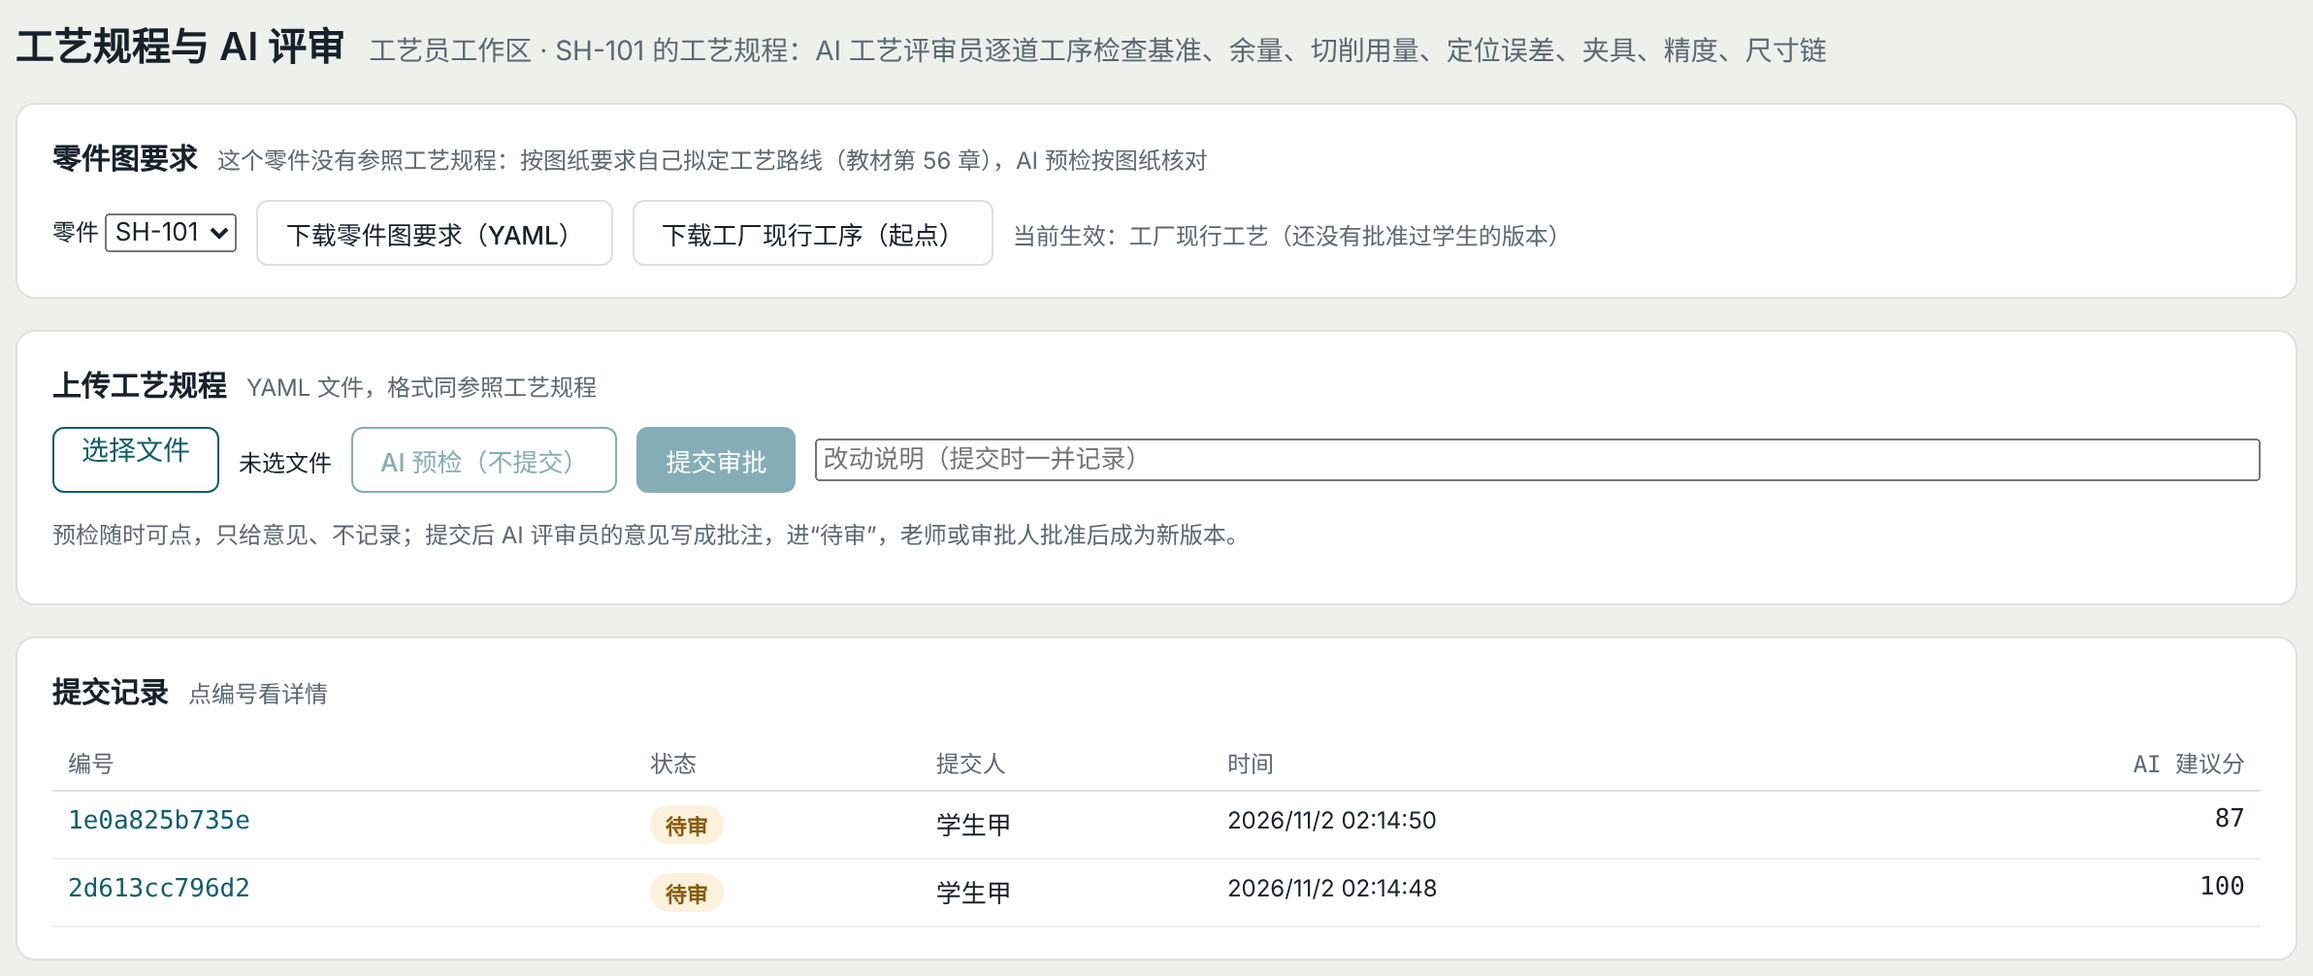
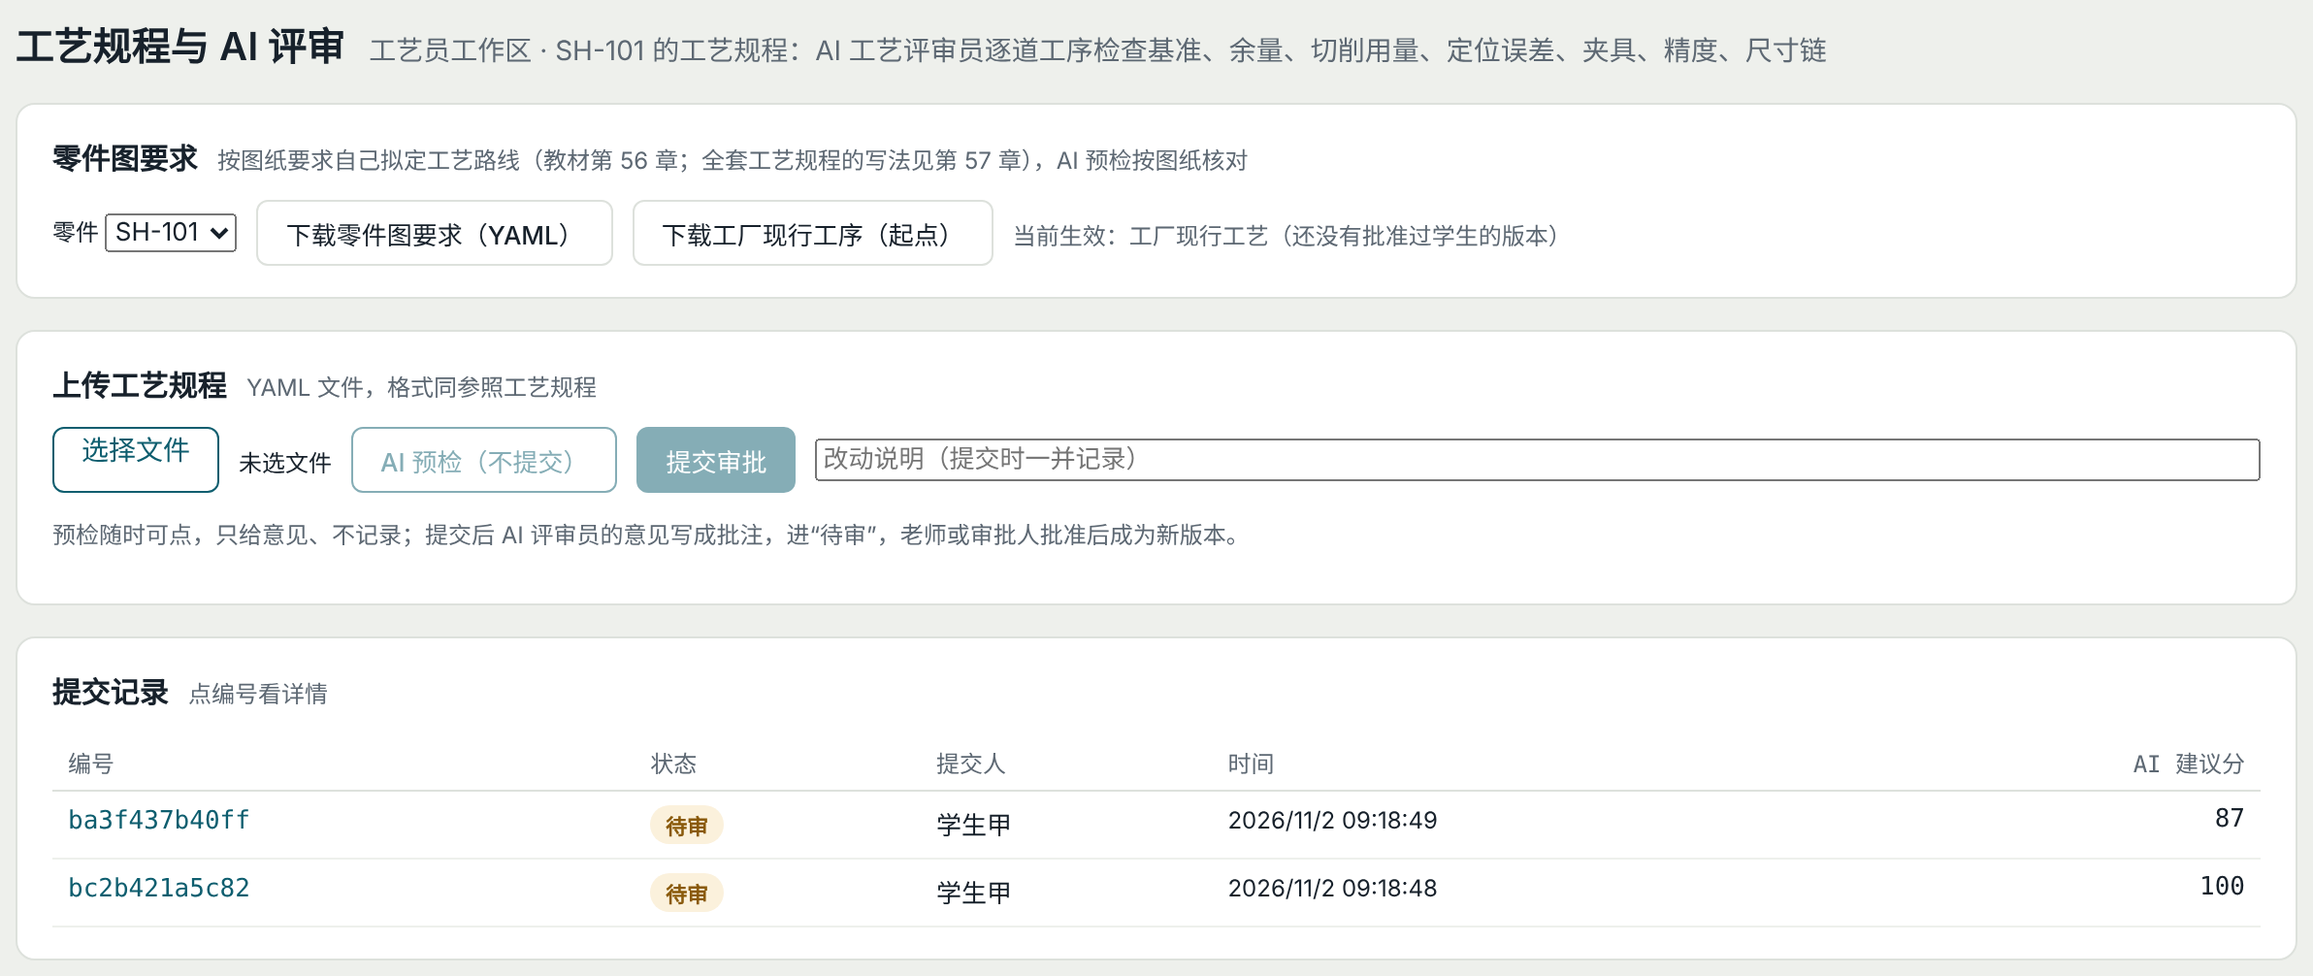
第 57 章（施工中）：任务单 TS-57-1、截图、术语；按独立审稿改正（棒料直径、滚齿工时、键槽深尺寸链加同轴度环、量具量程、热处理变形口径等）
Claude-Session: https://claude.ai/code/session_01TbQEhfaMssaAetoXrCsA4k

diff --git a/factory/digital/web/src/pages/ProcessPlan.vue b/factory/digital/web/src/pages/ProcessPlan.vue
@@ -16,7 +16,7 @@
         </div>
       </section>
       <section v-else class="card">
-        <div class="card-head" data-help="pp-part"><h2>零件图要求</h2><span class="muted small">这个零件没有参照工艺规程：按图纸要求自己拟定工艺路线（教材第 56 章），AI 预检按图纸核对</span></div>
+        <div class="card-head" data-help="pp-part"><h2>零件图要求</h2><span class="muted small">按图纸要求自己拟定工艺路线（教材第 56 章；全套工艺规程的写法见第 57 章），AI 预检按图纸核对</span></div>
         <div class="line">
           <label class="small">零件 <select v-model="item"><option v-for="i in ITEMS" :key="i" :value="i">{{ i }}</option></select></label>
           <button class="btn ghost" @click="downloadPart">下载零件图要求（YAML）</button>
@@ -95,7 +95,7 @@ import { useRoute } from 'vue-router';
 import { get, post, session } from '../lib/api';
 
 const ITEMS = ['SH-301', 'SH-101'];
-const HAS_REF = { 'SH-301': true };   // SH-101 只有零件图要求（第 13 轮十二），路线由学生拟定
+const HAS_REF = { 'SH-301': true };   // SH-101 网页上只给零件图要求（第 13 轮十二），路线由学生拟定；std/SH-101_process.yaml（第 57 章）可经接口下载
 const STATUS = { pending: '待审', approved: '已批准', rejected: '已退回' };
 const TONE = { pending: 'warn', approved: 'ok', rejected: 'bad' };
 const LEVEL = { error: '必须改', warning: '建议', info: '说明' };

diff --git a/textbook/mfgtech/ch57/lab/lab57_7.js b/textbook/mfgtech/ch57/lab/lab57_7.js
@@ -23,7 +23,7 @@ WQ.lab({
   scenes: [
     { id: "sh101", robot: true, name: ["SH-101 扩产", "SH-101 ramp-up"],
       params: { N: { value: 20000 }, KA: { value: 350000 }, KB: { value: 40000 }, cbn: { value: 3 }, tht: { value: 4 } },
-      problem: { title: ["机器人问题：减速器订单翻了三倍，磨床排不过来", "Robot problem: reducer orders tripled, the grinder cannot keep up"],
+      problem: { title: ["机器人问题：减速器订单增加到原来的 3 倍多，磨床排不过来", "Robot problem: reducer orders more than tripled, the grinder cannot keep up"],
                  text: ["WQR-105 减速器年产量要到 2 万台，SH-101 的外圆磨床每件 16 min，跟不上 10.2 min 的需求节拍。买一台磨床还是改成硬车？投资、成本、能力和风险都要比。",
                         "WQR-105 goes to 20 000 a year; SH-101's grinder needs 16 min per part against a 10.2 min takt. Buy a grinder or hard-turn? Compare investment, cost, capacity and risk."] } },
   ],

diff --git a/textbook/mfgtech/ch57/code/ex57_3.py b/textbook/mfgtech/ch57/code/ex57_3.py
@@ -59,17 +59,21 @@ res = TL.extreme(links)
 c5 = next(c for c in P["characteristics"] if c["id"] == "C5")
 assert res.max <= c5["nominal"] + c5["es"] + 1e-9 and res.min >= c5["nominal"] + c5["ei"] - 1e-9
 H = ch["links"][0]
-r30, r70 = ch["links"][1], ch["links"][2]
-H_es = c5["es"] + r30["ei"] - r70["es"]                     # 封闭环上偏差 = H 上偏差 − r30 下偏差 + r70 上偏差 → 反求 H 上偏差
-H_ei = c5["ei"] + r30["es"] - r70["ei"]
+r30, r70, ec = ch["links"][1], ch["links"][2], ch["links"][3]
+H0_es = c5["es"] + r30["ei"] - r70["es"]                    # 不计同轴度：封闭环上偏差 = H 上偏差 − r30 下偏差 + r70 上偏差 → 反求 H 上偏差
+H0_ei = c5["ei"] + r30["es"] - r70["ei"]
+H_es = H0_es - ec["es"]                                     # 计入磨后轴伸轴线的偏移（0 ± e，第 53.5 节）：H 的公差被压缩
+H_ei = H0_ei - ec["ei"]
+assert H["es"] <= H_es + 1e-9 and H["ei"] >= H_ei - 1e-9
 
-fig, ax = plt.subplots(figsize=(4.2, 2.2))
+fig, ax = plt.subplots(figsize=(4.2, 2.6))
 items = [(T("H 槽底到精车外圆下母线（工序 50）", "H (op 50)"), H["nominal"], H["es"], H["ei"], M.ACCENT, "+"),
          (T("精车轴伸半径 Ø20.4/2（工序 30）", "semi radius (op 30)"), r30["nominal"], r30["es"], r30["ei"], M.MUTED, "−"),
          (T("磨削轴伸半径 Ø20 j6/2（工序 70）", "ground radius (op 70)"), r70["nominal"], r70["es"], r70["ei"], M.WARM, "+"),
+         (T("磨后与精车轴线的偏移（同轴度 0.02）", "axis offset (coaxiality 0.02)"), ec["nominal"], ec["es"], ec["ei"], M.GREEN, "+"),
          (T("d − t₁ 封闭环（图纸 16.5 0/−0.1）", "d − t₁ closing link"), c5["nominal"], res.max - c5["nominal"], res.min - c5["nominal"], M.RED, "=")]
 for i, (lab, nom, es, ei, col, sg) in enumerate(items):
-    yy = 3 - i
+    yy = 4 - i
     ax.barh(yy, (es - ei) * 1000, left=ei * 1000, color=col, height=0.5)
     ax.text(-118, yy, f"{sg} {lab}", va="center", ha="right", fontsize=6.8)
     ax.text(max(es, 0) * 1000 + 4, yy, f"{nom:g}（{es:+.4g}/{ei:+.4g}）".replace("-", "−"), va="center", fontsize=6.5)
@@ -95,5 +99,5 @@ figure(fig, "fig57_3_4")
 
 out(d8_cur=d8(cur)["result"].es, d8_alt=d8(alt)["result"].es, d8_alt_ok=d8(alt)["ok"], d30_cur=d30(cur)["result"].es,
     d30_alt=d30(alt)["result"].es, amin=min(a["min"] for a in cur["allowances"]), amax=max(a["max"] for a in cur["allowances"]),
-    n_cuts=len(tc["cuts"]), n_draw=len(tc["drawing"]), H=H["nominal"], H_es=H_es, H_ei=H_ei, r30=r30["nominal"], r70=r70["nominal"],
+    n_cuts=len(tc["cuts"]), n_draw=len(tc["drawing"]), H=H["nominal"], H_es=H_es, H_ei=H_ei, H0_es=H0_es, H0_ei=H0_ei, Hs=H["es"], Hi=H["ei"], e_coax=ec["es"], r30=r30["nominal"], r70=r70["nominal"],
     res_es=res.max - c5["nominal"], res_ei=res.min - c5["nominal"], chain_T=res.max - res.min)

diff --git a/textbook/mfgtech/ch57/code/ex57_1.py b/textbook/mfgtech/ch57/code/ex57_1.py
@@ -37,9 +37,9 @@ figure(fig, "fig57_1_2")
 
 fig, ax = plt.subplots(figsize=(6.2, 2.3))
 parts = [(52.0, T("齿顶圆 Ø52", "tip Ø52"), M.INK), (1.5, T("精车余量 1.5", "finish 1.5"), M.ACCENT),
-         (bar["z1"], T(f"毛坯最小余量 {bar['z1']:.2f}", f"bar min stock {bar['z1']:.2f}"), M.WARM), (0.3, T("粗车公差 0.3", "rough tol 0.3"), M.MUTED)]
+         (bar["z1"], T(f"毛坯最小余量 {bar['z1']:.2f}", f"bar min stock {bar['z1']:.2f}"), M.WARM)]
 l = 0
-POS = {1: (52.75, 1.36, "center"), 2: (54.4, 1.58, "center"), 3: (55.7, 1.36, "left")}
+POS = {1: (52.75, 1.36, "center"), 2: (53.6, 1.58, "center")}
 for k, (w, lab, col) in enumerate(parts):
     ax.barh(1, w, left=l, color=col, height=0.5, clip_on=True)
     if k:
@@ -50,6 +50,9 @@ ax.text(50, 1, T("齿顶圆 Ø52", "tip Ø52"), ha="center", va="center", fontsi
 for d, col, lab in ((bar["pick"], M.GREEN, T(f"够用的圆钢 Ø{bar['pick']}", f"enough: Ø{bar['pick']}")), (60, M.RED, T("工厂现用 Ø60", "in stock: Ø60"))):
     ax.barh(0 if d == 60 else 0.45, d, color=col, height=0.3, alpha=0.35)
     ax.text(d + 0.3, 0 if d == 60 else 0.45, lab, va="center", fontsize=7, color=col)
+ax.barh(0.45, -bar["bar_ei"], left=bar["pick_min"], color=M.GREEN, height=0.3, alpha=0.7)
+ax.text(bar["pick_min"] - 0.35, 0.45, T(f"下偏差 −{-bar['bar_ei']:g} → 最小 {bar['pick_min']:g}", f"lower dev. {bar['bar_ei']:g} → min {bar['pick_min']:g}"),
+        ha="right", va="center", fontsize=6.5, color=M.INK)
 ax.set_xlim(48, 64); ax.set_ylim(-0.3, 1.8); ax.set_yticks([]); ax.set_xlabel(T("直径 / mm", "diameter / mm"))
 ax.axvline(bar["need"], color=M.INK, ls="--", lw=0.7); ax.text(bar["need"] + 0.15, 0.72, f"≥ {bar['need']:.2f}", ha="left", fontsize=7)
 figure(fig, "fig57_1_5")
@@ -58,5 +61,5 @@ out(**{f"z_{i}": c["z"] for i, c in enumerate(comp)}, **{f"geo_{i}": c["geo"] fo
     rz_rough=C.WQ_PS_01["粗车"][0], ha_rough=C.WQ_PS_01["粗车"][1], rho_rough=C.WQ_PS_01["粗车"][2],
     rz_semi=C.WQ_PS_01["半精车后渗碳淬火"][0], ha_semi=C.WQ_PS_01["半精车后渗碳淬火"][1], rho_semi=C.WQ_PS_01["半精车后渗碳淬火"][2],
     rz_bar=C.WQ_PS_01["热轧圆钢"][0], ha_bar=C.WQ_PS_01["热轧圆钢"][1], rho_bar=C.WQ_PS_01["热轧圆钢"][2], eps_chuck=C.EPS_CHUCK,
-    bar_need=bar["need"], bar_pick=bar["pick"], bar_z1=bar["z1"], m60=m60, m_pick=m_pick, save_kg=m60 - m_pick,
+    bar_need=bar["need"], bar_pick=bar["pick"], bar_ei=bar["bar_ei"], bar_pick_min=bar["pick_min"], bar_z1=bar["z1"], m60=m60, m_pick=m_pick, save_kg=m60 - m_pick,
     save_cny=(m60 - m_pick) * price, save_year=(m60 - m_pick) * price * 6000, price=price)

diff --git a/textbook/mfgtech/ch57/code/_calc57.py b/textbook/mfgtech/ch57/code/_calc57.py
@@ -59,11 +59,12 @@ def sheet(d, es, ei, name, T2=0.05, T1=0.2, item="SH-101"):
     return cs
 
 
-def bar_diameter(da=52.0, finish=1.5, T1=0.3, sizes=(50, 52, 55, 56, 58, 60, 63, 65)):
-    """最大外圆（齿顶圆）需要的棒料直径：da + 精车余量 = 粗车尺寸；粗车尺寸 + 毛坯的最小余量（热轧表面、弯曲、卡盘定心）+ 粗车公差
-    = 最小棒料直径，取 GB/T 702 的优先尺寸（这里列出工厂常备的几种）。"""
+def bar_diameter(da=52.0, finish=1.5, bar_ei=-0.6, sizes=(50, 52, 55, 56, 58, 60, 63, 65)):
+    """最大外圆（齿顶圆）需要的棒料直径：da + 精车余量 = 粗车尺寸 A₁（上偏差 0）；按式 (57.2.1)，棒料的最小直径
+    ≥ A₁ + 毛坯的最小余量（热轧表面、弯曲、卡盘定心）。棒料按名义直径订货，要再扣去它的下偏差 bar_ei
+    （热轧圆钢 Ø50–Ø80 取 −0.6 示意，以现行 GB/T 702 为准），取工厂常备的规格。"""
     rz, ha, rho, _ = WQ_PS_01["热轧圆钢"]
     z1 = zmin(rz, ha, rho, EPS_CHUCK)
-    need = da + finish + z1 + T1
-    pick = next(s for s in sizes if s >= need)
-    return dict(z1=z1, need=need, pick=pick, a_rough=da + finish)
+    need = da + finish + z1                    # 棒料直径的最小值
+    pick = next(s for s in sizes if s + bar_ei >= need - 1e-9)
+    return dict(z1=z1, need=need, pick=pick, a_rough=da + finish, bar_ei=bar_ei, pick_min=pick + bar_ei)

diff --git a/factory/digital/tests/test_process_page.py b/factory/digital/tests/test_process_page.py
@@ -49,12 +49,13 @@ def test_bad_uploads(client):
 
 
 def test_sh101_part_and_route_precheck(client):
-    """第 13 轮十二：SH-101 有零件图要求、没有参照工艺规程；按第 56 章的路线预检没有“路线”意见，把键槽排到淬火后就有"""
+    """第 13 轮十二：SH-101 有零件图要求；按第 56 章的路线预检没有“路线”意见，把键槽排到淬火后就有。
+    第 13 轮十三：第 57 章补了 SH-101 的全套工艺规程（std/SH-101_process.yaml），参照工艺规程可以下载（网页上仍先给零件图要求）"""
     import os
     r = client.get("/api/process/part/SH-101")
     assert r.status_code == 200 and r.json()["part"]["material"] == "20CrMnTi"
     assert client.get("/api/process/part/SH-301").status_code == 404
-    assert client.get("/api/process/reference/SH-101").status_code == 404
+    assert client.get("/api/process/reference/SH-101").status_code == 200
     text = open(os.path.join(os.path.dirname(__file__), "..", "std", "SH-101_route.yaml"), encoding="utf-8").read()
     ok = client.post("/api/process/check", json={"yaml": text}).json()
     assert not [f for f in ok["findings"] if f["rule"] == "路线" and f["level"] != "info"]

diff --git a/textbook/mfgtech/ch57/code/fig57_shots.py b/textbook/mfgtech/ch57/code/fig57_shots.py
@@ -1,0 +1,16 @@
+"""第 57 章的数字工厂界面截图（第 13 轮十三）：截图由 textbook/tools/factory_shots.py（--only 57）在本机起数字工厂，学生提交 SH-101 的
+全套工艺规程（std/SH-101_process.yaml）两次，老师批准其中一份成为生效版本，下达任务单 TS-57-1 后截取，
+存在 textbook/mfgtech/shots/（清单.yaml 记下页面、账号和数据来源）；这里把截图包成书中的图。界面改了，重新运行 factory_shots.py。"""
+from pathlib import Path
+
+from PIL import Image
+
+import _mfg as M
+
+R = M.r3d()
+SHOTS = Path(__file__).resolve().parents[2] / "shots"
+FIGS = {"fig57_9_3": "shot57_1", "fig57_9_4": "shot57_2", "fig57_9_5": "shot57_3"}
+for fig, shot in FIGS.items():
+    p = SHOTS / f"{shot}.png"
+    w, h = Image.open(p).size
+    R.save_figure(fig, p.read_bytes(), w // 2, h // 2)

diff --git a/textbook/mfgtech/ch57/code/ex57_8.py b/textbook/mfgtech/ch57/code/ex57_8.py
@@ -18,5 +18,5 @@ M.card_figure(C.inspection_card(P, pages - 1, pages), "fig57_8_5")
 M.card_figure(C.tool_card(P, pages, pages), "fig57_8_6")
 v30 = [C.step_values(s) for s in M.op(P, 30)["steps"]]
 out(n_ops=len(P["operations"]), n_mach=len(ops), n_pages=pages, n_chars=len(P["characteristics"]), n_tools=len(P["tool_list"]),
-    n_gauges=len(P["gauges"]), n30_lo=v30[0]["n"][0], n30_hi=v30[0]["n"][1], tb30=sum(x["tb"] for x in v30),
+    n_gauges=len(P["gauges"]), n30_lo=min(x["n"][0] for x in v30 if x.get("n")), n30_hi=max(x["n"][1] for x in v30 if x.get("n")), tb30=sum(x["tb"] for x in v30),
     n_steps=sum(len(o.get("steps") or []) for o in P["operations"]))

diff --git a/textbook/mfgtech/ch57/anim/v57_5_1.py b/textbook/mfgtech/ch57/anim/v57_5_1.py
@@ -42,7 +42,7 @@ def frame(x, ap, f, cap):
 
 
 for ap, f, cap in ((0.55, 0.15, ("工艺规程：ap 0.55、f 0.15（让开量放大 800 倍画出）", "Plan: ap 0.55, f 0.15 (deflection ×800)")),
-                   (1.1, 0.3, ("改成 ap 1.1、f 0.3：背向力加倍，让刀接近工序公差", "ap 1.1, f 0.3: twice the force")),):
+                   (1.1, 0.3, ("改成 ap 1.1、f 0.3：背向力增大到约 3.6 倍，让刀接近工序公差", "ap 1.1, f 0.3: about 3.6× the force")),):
     for k in range(51):
         v.add(frame(136 - 136 * k / 50, ap, f, cap), hold=0.08)
     v.add(frame(0, ap, f, cap), hold=1.0)

diff --git a/textbook/mfgtech/ch57/anim/v57_9_1.py b/textbook/mfgtech/ch57/anim/v57_9_1.py
@@ -1,4 +1,4 @@
-"""三维动画 57.9.1（配图 57.9.4）：首件检验——磨后的 SH-101 放在偏摆检查仪的两顶尖上，工件转一圈，千分表依次测两处轴承位的
+"""三维动画 57.9.1（配图 57.9.1）：首件检验——磨后的 SH-101 放在偏摆检查仪的两顶尖上，工件转一圈，千分表依次测两处轴承位的
 径向圆跳动（要求 0.010，示意读数），再用杠杆千分尺测直径（Ø25 k6：25.002–25.015，示意读数）。全部合格，首件检验签字后才继续生产。"""
 import math
 import sys

diff --git a/textbook/mfgtech/ch57/code/ex57_6.py b/textbook/mfgtech/ch57/code/ex57_6.py
@@ -20,7 +20,7 @@ TA = {   # 工步里没有写的辅助时间（min）：装卸工件、测量、
     30: [("装卸工件、鸡心夹头（两次）", 1.6), ("换半缺顶尖（两次）", 0.6), ("测量（8 处）", 1.6)],
     40: [("装卸工件", 0.6)],
     50: [("测量", 0.3)],
-    70: [("装卸工件、鸡心夹头", 0.8), ("测量（4 处）", 1.2)],
+    70: [("装卸工件（端面拨动顶尖）", 0.8), ("测量（4 处）", 1.2)],
 }
 rows = []
 for o in P["operations"]:

diff --git a/textbook/mfgtech/ch57/57-3.md b/textbook/mfgtech/ch57/57-3.md
@@ -27,9 +27,9 @@ src: fig57_3_1
 - {{ex57_3.n_draw}} 个图纸尺寸都能保证；
 - 每次精车端面、轴肩的余量在 {{ex57_3.amin:.2f}} mm 以上，大于规定的最小值 0.1 mm。
 
-其中，8 ± 0.1 在工序 30 调头后**以轴承定位轴肩为基准**直接控制，工序尺寸是 8 ± 0.05，基准重合，工艺上得到 8 ± {{ex57_3.d8_cur:g}}。
+其中，8 ± 0.1 在工序 30 调头后以轴承定位轴肩为基准直接控制，工序尺寸是 8 ± 0.05，基准重合，工艺上得到 8 ± {{ex57_3.d8_cur:g}}。
 
-换一种做法：从左端面编程车齿轮左端面，工序尺寸为 81 ± 0.05。这时 8 由 73 和 81 两个尺寸间接得到，只能保证 8 ± {{ex57_3.d8_alt:g}}，刚好用完图纸公差（图 57.3.4）。不过它也有好处：齿宽 30 由 81 和右侧的尺寸得到，从 ± {{ex57_3.d30_cur:g}} 改善到 ± {{ex57_3.d30_alt:g}}。
+换一种做法：从左端面编程车齿轮左端面，工序尺寸为 81 ± 0.05。这时 8 由 73 和 81 两个尺寸间接得到，只能保证 8 ± {{ex57_3.d8_alt:g}}，刚好用完图纸公差（图 57.3.4）。不过它也有好处：齿宽 30 由 81 和右侧的尺寸得到，从 ± {{ex57_3.d30_cur:g}} 改善到 ± {{ex57_3.d30_alt:g}}。注意现行做法下齿宽 30 ± 0.2 的公差也已经用完，再没有余地。
 
 两种做法各有得失。图纸上 8 ± 0.1 关系到齿轮与轴承的轴向位置，是关键尺寸，所以选基准重合。这正是 56.4 节的原则在工序尺寸上的落实。
 
@@ -40,15 +40,18 @@ src: fig57_3_2
 
 ### 57.3.3 键槽深：铣在磨前
 
-**算例 57.3.2** 键槽在工序 50 铣，那时轴伸是精车后的 Ø20.4 0/−0.05；渗碳淬火后工序 70 再把轴伸磨到 Ø20 j6。所以铣键槽时不能直接控制图纸的 d − t₁ = 16.5（0/−0.1），只能控制槽底到精车外圆下母线的尺寸 H。尺寸链里（图 57.3.2）：
+**算例 57.3.2** 键槽在工序 50 铣，那时轴伸是工序 30 半精车后的 Ø20.4 0/−0.05；渗碳淬火后工序 70 再把轴伸磨到 Ø20 j6。所以铣键槽时不能直接控制图纸的 d − t₁ = 16.5（0/−0.1），只能控制槽底到精车外圆下母线的尺寸 H。尺寸链里（图 57.3.2）：
 
 - d − t₁ 是封闭环；
 - H、磨削后的半径 Ø20 j6/2 是增环；
-- 精车后的半径 Ø20.4/2 是减环。
+- 精车后的半径 Ø20.4/2 是减环；
+- 磨后轴伸的轴线对精车轴线的偏移也是一环：渗碳淬火的变形和修研中心孔，使磨削的中心与铣键槽时 V 形块对准的中心不重合。它的基本尺寸为零，偏差 ±{{ex57_3.e_coax:g}}（同轴度 0.02，由工序 60 检验轴伸处的径向跳动 ≤ 0.02 保证）。第 53.5 节说过，漏掉这类形位误差，算出的工序尺寸就偏松。
 
-由极值法反求，H 的上偏差不大于 {{ex57_3.H_es:.4f}}，下偏差不小于 {{ex57_3.H_ei:.3f}}，取 H = {{ex57_3.H:g}}（−0.03/−0.09）。核算 d − t₁ 得 16.5（{{ex57_3.res_es:.4f}}/{{ex57_3.res_ei:.3f}}），在图纸公差内。
+由极值法反求：不计同轴度时，H 的上偏差不大于 {{ex57_3.H0_es:.4f}}，下偏差不小于 {{ex57_3.H0_ei:.3f}}；计入同轴度后压缩为 {{ex57_3.H_es:.4f}} 和 {{ex57_3.H_ei:.3f}}，取 H = {{ex57_3.H:g}}（{{ex57_3.Hs:g}}/{{ex57_3.Hi:g}}）。核算 d − t₁ 得 16.5（{{ex57_3.res_es:.4f}}/{{ex57_3.res_ei:.3f}}），在图纸公差内。H 的公差只剩 0.045，铣键槽要用专用夹具、首件和每 5 件检验；若热处理变形控制不住，轴伸的跳动超过 0.02，就只能把 d − t₁ 改为磨后检验、按跳动分组，或与设计商量放宽公差。
 
-若直接把 H 写成图纸的 16.5，磨削后键槽深就差了 0.2 mm——AI 评审员会指出这一条（57.9 节）。渗碳层深度也是这样换算的：图纸要求磨后 0.8–1.2 mm，热处理就要渗到 1.1–1.3 mm（第 53 章的热处理与镀层尺寸链）。
+若直接把 H 写成图纸的 16.5，磨削后键槽深就差了 0.2 mm——AI 评审员会指出这一条（57.9 节）。键槽铣在渗碳之前，槽面也会被渗碳淬硬；若图纸要求键槽不硬化，要在工序 60 之前给轴伸涂防渗剂或镀铜。
+
+有效硬化层深度也是这样换算的：图纸要求磨后 0.8–1.2 mm，按磨削余量的范围由尺寸链推出磨前许可 1.0–1.37 mm，热处理收严取 1.1–1.3 mm（第 53 章的热处理与镀层尺寸链）。
 
 ::: 图 57.3.3
 src: fig57_3_3
